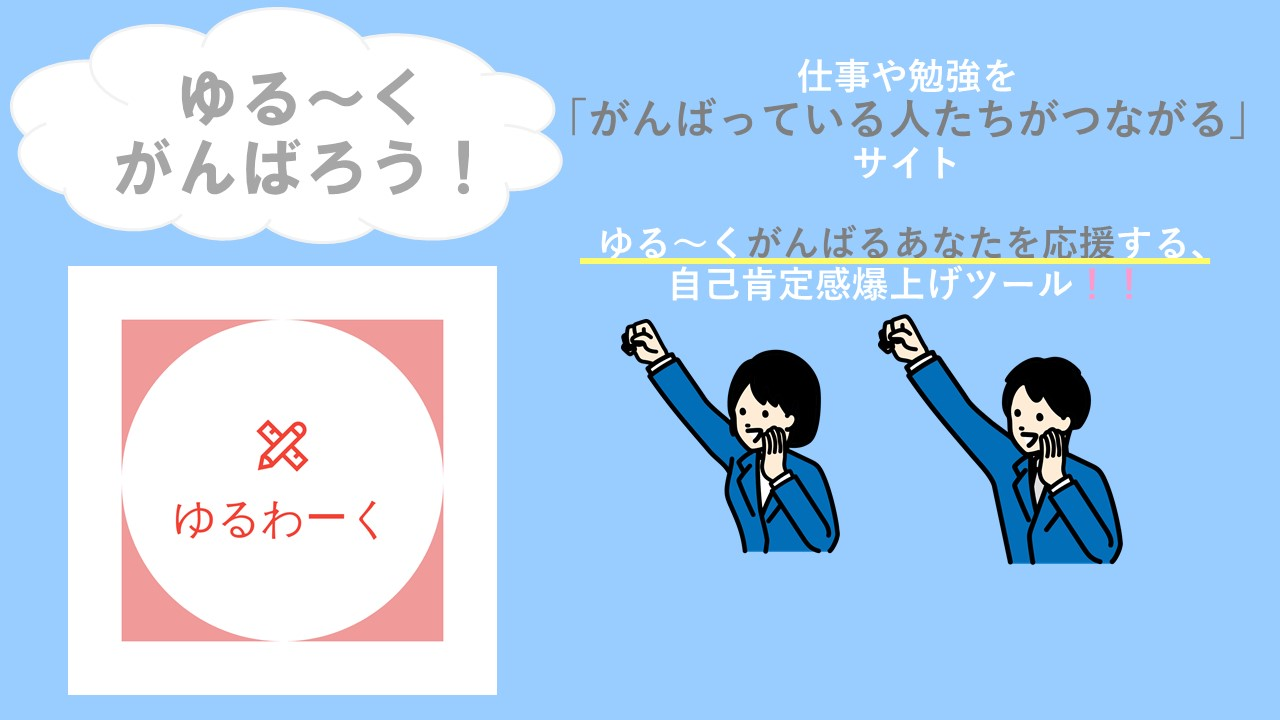
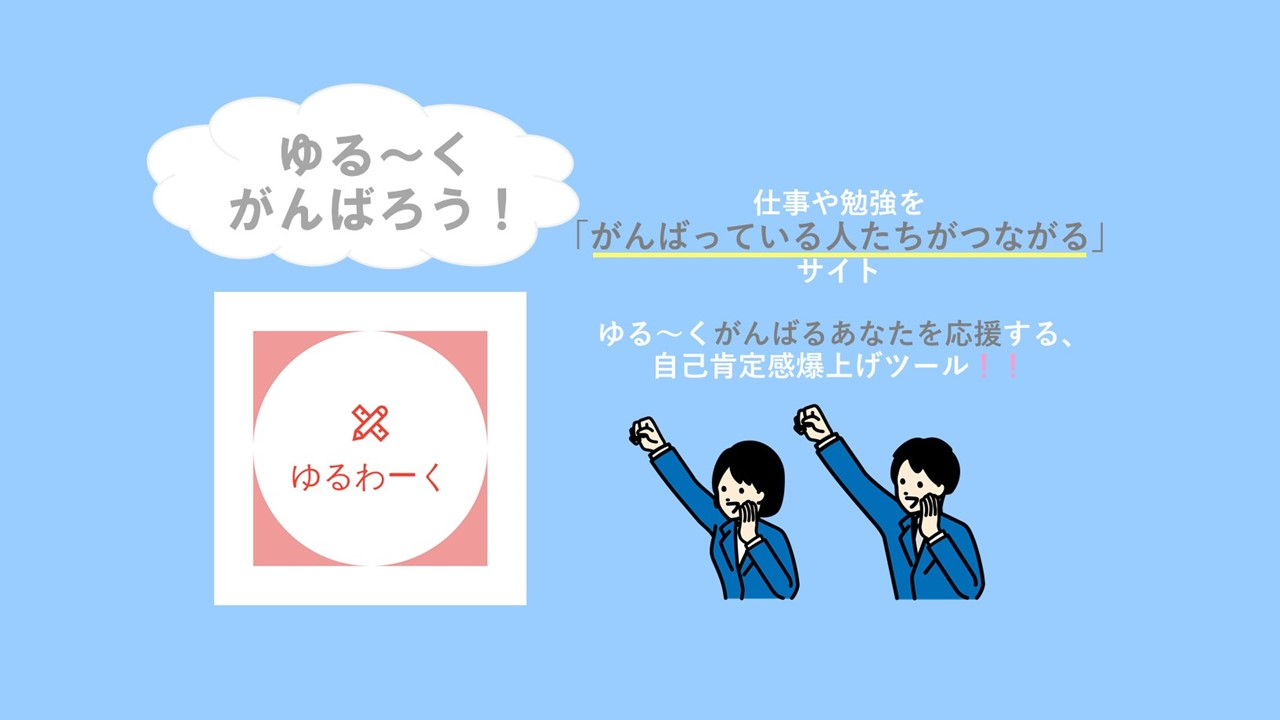
top、お問い合わせ機能完成

diff --git a/app/assets/stylesheets/homes.scss b/app/assets/stylesheets/homes.scss
@@ -2,6 +2,7 @@
 // They will automatically be included in application.css.
 // You can use Sass (SCSS) here: http://sass-lang.com/
 
+
 // ゲストサインイン
 .gest-signin {
   position: fixed;
@@ -59,30 +60,42 @@
 .image1 {
   background-image: url(slide/1.jpg);
   height: 47vw;
-  width: 100%;
   background-size: cover;
 }
 .image2 {
   background-image: url(slide/2.jpg);
   height: 47vw;
-  width: 100%;
   background-size: cover;
 }
 .image3 {
   background-image: url(slide/3.jpg);
   height: 47vw;
-  width: 100%;
   background-size: cover;
 }
 .image4 {
   background-image: url(slide/4.jpg);
   height: 47vw;
-  width: 100%;
   background-size: cover;
 }
 
 #slider-container{
   width: 100%;
   height: 100vh;
+  background-color: #9eccf8;
 }
 
+.skippr {
+  width: 80% !important;
+  height: 80% !important;
+  margin: 0 auto;
+}
+
+.skippr-next {
+  border-bottom: 3px solid white !important;
+  border-right: 3px solid white !important;
+}
+
+.skippr-previous {
+  border-top: 3px solid white !important;
+  border-left: 3px solid white !important;
+}

diff --git a/app/assets/stylesheets/calendars.scss b/app/assets/stylesheets/calendars.scss
@@ -2,6 +2,7 @@
 // They will automatically be included in application.css.
 // You can use Sass (SCSS) here: http://sass-lang.com/
 
+
 .sidebar {
   background-color: #ffffb2;
   text-align: center;

diff --git a/app/assets/stylesheets/contacts.scss b/app/assets/stylesheets/contacts.scss
@@ -1,3 +1,4 @@
 // Place all the styles related to the contacts controller here.
 // They will automatically be included in application.css.
 // You can use Sass (SCSS) here: http://sass-lang.com/
+

diff --git a/app/assets/stylesheets/application.scss b/app/assets/stylesheets/application.scss
@@ -148,7 +148,8 @@ footer {
   text-align: center;
 }
 
-
+// 文字のマーカー
 .marker {
   background: linear-gradient(transparent 80%, #ffff9e 0%);
 }
+

diff --git a/app/assets/stylesheets/tweets.scss b/app/assets/stylesheets/tweets.scss
@@ -20,4 +20,3 @@ h4 {
   background-color: white;
 }
 
-

diff --git a/config/environments/production.rb b/config/environments/production.rb
@@ -68,19 +68,22 @@ Rails.application.configure do
   # Ignore bad email addresses and do not raise email delivery errors.
   # Set this to true and configure the email server for immediate delivery to raise delivery errors.
 
+  config.action_mailer.default_url_options = {  host: 'localhost', port: 3000 }
   # お問い合わせ機能 Gmail
-  # config.action_mailer.perform_deliveries = true
-  # config.action_mailer.raise_delivery_errors = true
-  # config.action_mailer.delivery_method =  :smtp
-  # config.action_mailer.smtp_settings =  {
-  #   address: 'smtp.gmail.com',
-  #   port: 587,
-  #   domain: 'gmail.com',
-  #   user_name: '',
-  #   password: '',
-  #   authentication: 'plain',
-  #   enable_starttls_auto: true
-  # }
+  config.action_mailer.perform_deliveries = true
+  config.action_mailer.raise_delivery_errors = true
+  config.action_mailer.delivery_method =  :smtp
+  config.action_mailer.smtp_settings =  {
+    address: 'smtp.gmail.com',
+    port: 587,
+    domain: 'gmail.com',
+    # gmail.comの前'
+    user_name: ENV['SEND_USERNAME'],
+    # ２段階認証のパスワード
+    password: ENV['SEND_PASSWORD'],
+    authentication: 'plain',
+    #enable_starttls_auto: true
+  }
 
   config.action_mailer.perform_caching = false
 

diff --git a/config/environments/development.rb b/config/environments/development.rb
@@ -32,22 +32,6 @@ Rails.application.configure do
 
   # Don't care if the mailer can't send.
 
-  # お問い合わせ機能 Gmail
-  config.action_mailer.perform_deliveries = true
-  config.action_mailer.raise_delivery_errors = true
-  config.action_mailer.delivery_method =  :smtp
-  config.action_mailer.smtp_settings =  {
-    address: 'smtp.gmail.com',
-    port: 587,
-    domain: 'gmail.com',
-    # gmail.comの前'
-    user_name: ENV['SEND_USERNAME'],
-    # ２段階認証のパスワード
-    password: ENV['SEND_PASSWORD'],
-    authentication: 'plain',
-    enable_starttls_auto: true
-  }
-
   config.action_mailer.perform_caching = false
 
   # Print deprecation notices to the Rails logger.

diff --git a/app/mailers/contact_mailer.rb b/app/mailers/contact_mailer.rb
@@ -3,7 +3,7 @@ class ContactMailer < ApplicationMailer
 # to:で送信先のアドレス指定　環境変数を.envに定義
   def contact_mail(contact)
     @contact = contact
-    mail to: ENV['MAIL'], subject: 'お問い合わせ内容'
+    mail to: ENV['CONTACT_MAIL'], subject: 'お問い合わせ内容'
   end
 
 end
